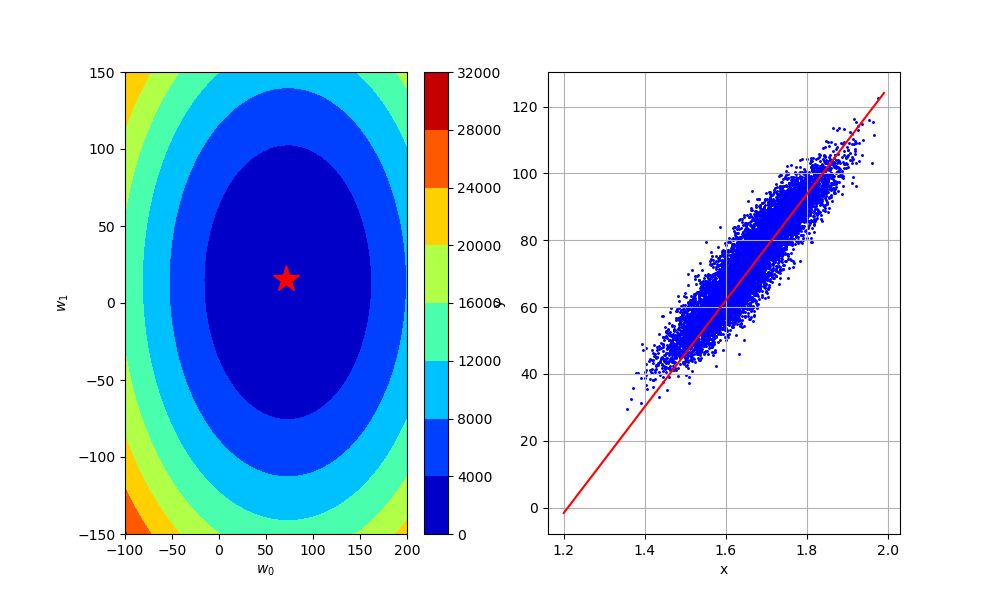
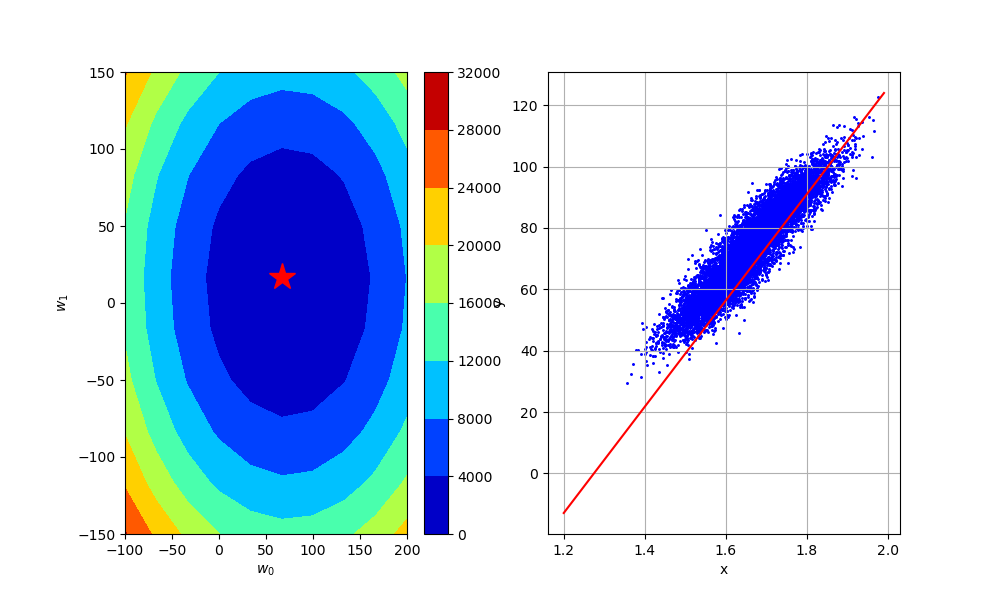
ok

diff --git a/labs/ex02/template/Functions/grid_search.py b/labs/ex02/template/Functions/grid_search.py
@@ -1,0 +1,50 @@
+# -*- coding: utf-8 -*-
+"""Exercise 2.
+
+Grid Search
+"""
+
+import numpy as np
+from costs import compute_loss
+
+
+def generate_w(num_intervals):
+    """Generate a grid of values for w0 and w1."""
+    w0 = np.linspace(-100, 200, num_intervals)
+    w1 = np.linspace(-150, 150, num_intervals)
+    return w0, w1
+
+
+def get_best_parameters(w0, w1, losses):
+    """Get the best w from the result of grid search."""
+    min_row, min_col = np.unravel_index(np.argmin(losses), losses.shape)
+    return losses[min_row, min_col], w0[min_row], w1[min_col]
+
+
+# ***************************************************
+# INSERT YOUR CODE HERE
+# TODO: Paste your implementation of grid_search
+#       here when it is done.
+# ***************************************************
+def grid_search(y, tx, grid_w0, grid_w1):
+    """Algorithm for grid search.
+
+    Args:
+        y: numpy array of shape=(N, )
+        tx: numpy array of shape=(N,2)
+        grid_w0: numpy array of shape=(num_grid_pts_w0, ). A 1D array containing num_grid_pts_w0 values of parameter w0 to be tested in the grid search.
+        grid_w1: numpy array of shape=(num_grid_pts_w1, ). A 1D array containing num_grid_pts_w1 values of parameter w1 to be tested in the grid search.
+
+    Returns:
+        losses: numpy array of shape=(num_grid_pts_w0, num_grid_pts_w1). A 2D array containing the loss value for each combination of w0 and w1
+    """
+
+    losses = np.zeros((len(grid_w0), len(grid_w1)))
+    # ***************************************************
+    # INSERT YOUR CODE HERE
+    # TODO: compute loss for each combination of w0 and w1.
+    # ***************************************************
+    for i in range(len(grid_w0)):
+        for j in range(len(grid_w1)):
+            losses[i,j] = compute_loss(y, tx, np.array([grid_w0[i],grid_w1[j]]))
+    return losses

diff --git a/labs/ex02/template/Functions/stochastic_gradient_descent.py b/labs/ex02/template/Functions/stochastic_gradient_descent.py
@@ -23,7 +23,9 @@ def compute_stoch_gradient(y, tx, w):
     # INSERT YOUR CODE HERE
     # TODO: implement stochastic gradient computation. It's the same as the usual gradient.
     # ***************************************************
-    raise NotImplementedError
+    N = len(y)
+    e = y - tx@w
+    return (-1/N)*((tx.T)@e)
 
 
 def stochastic_gradient_descent(y, tx, initial_w, batch_size, max_iters, gamma):
@@ -52,7 +54,14 @@ def stochastic_gradient_descent(y, tx, initial_w, batch_size, max_iters, gamma):
         # INSERT YOUR CODE HERE
         # TODO: implement stochastic gradient descent.
         # ***************************************************
-        raise NotImplementedError
+        loss = compute_loss(y,tx,w)
+        batch = batch_iter(y, tx, batch_size=batch_size, num_batches=1, shuffle=True)
+        for batch_y, batch_tx in batch:
+            grad = compute_stoch_gradient(batch_y, batch_tx, w)
+        w = w - gamma * grad
+
+        ws.append(w)
+        losses.append(loss)
 
         print(
             "SGD iter. {bi}/{ti}: loss={l}, w0={w0}, w1={w1}".format(

diff --git a/labs/ex02/template/Functions/gradient_descent.py b/labs/ex02/template/Functions/gradient_descent.py
@@ -3,6 +3,7 @@
 
 Gradient Descent
 """
+from costs import compute_loss
 
 
 def compute_gradient(y, tx, w):
@@ -20,7 +21,9 @@ def compute_gradient(y, tx, w):
     # INSERT YOUR CODE HERE
     # TODO: compute gradient vector
     # ***************************************************
-    raise NotImplementedError
+    N = len(y)
+    e = y - tx@w
+    return (-1/N)*((tx.T)@e)
 
 
 def gradient_descent(y, tx, initial_w, max_iters, gamma):
@@ -46,12 +49,13 @@ def gradient_descent(y, tx, initial_w, max_iters, gamma):
         # INSERT YOUR CODE HERE
         # TODO: compute gradient and loss
         # ***************************************************
-        raise NotImplementedError
+        loss = compute_loss(y, tx, w)
+        grad = compute_gradient(y, tx, w)
         # ***************************************************
         # INSERT YOUR CODE HERE
         # TODO: update w by gradient
         # ***************************************************
-        raise NotImplementedError
+        w = w-gamma*grad
 
         # store w and loss
         ws.append(w)

diff --git a/labs/ex02/template/Functions/subgradient_mae.py b/labs/ex02/template/Functions/subgradient_mae.py
@@ -16,4 +16,7 @@ def compute_subgradient_mae(y, tx, w):
     # INSERT YOUR CODE HERE
     # TODO: compute subgradient gradient vector for MAE
     # ***************************************************
-    raise NotImplementedError
+    q = y - tx@w
+    s = np.sign(q)
+    N = len(y)
+    return (-1/N)*((tx.T)@s)

diff --git a/labs/ex02/template/Functions/costs.py b/labs/ex02/template/Functions/costs.py
@@ -19,4 +19,6 @@ def compute_loss(y, tx, w):
     # INSERT YOUR CODE HERE
     # TODO: compute loss by MSE
     # ***************************************************
-    raise NotImplementedError
+    N = len(y)
+    e = y - tx @ w
+    return (0.5/N) * ( (e.T)@e )
